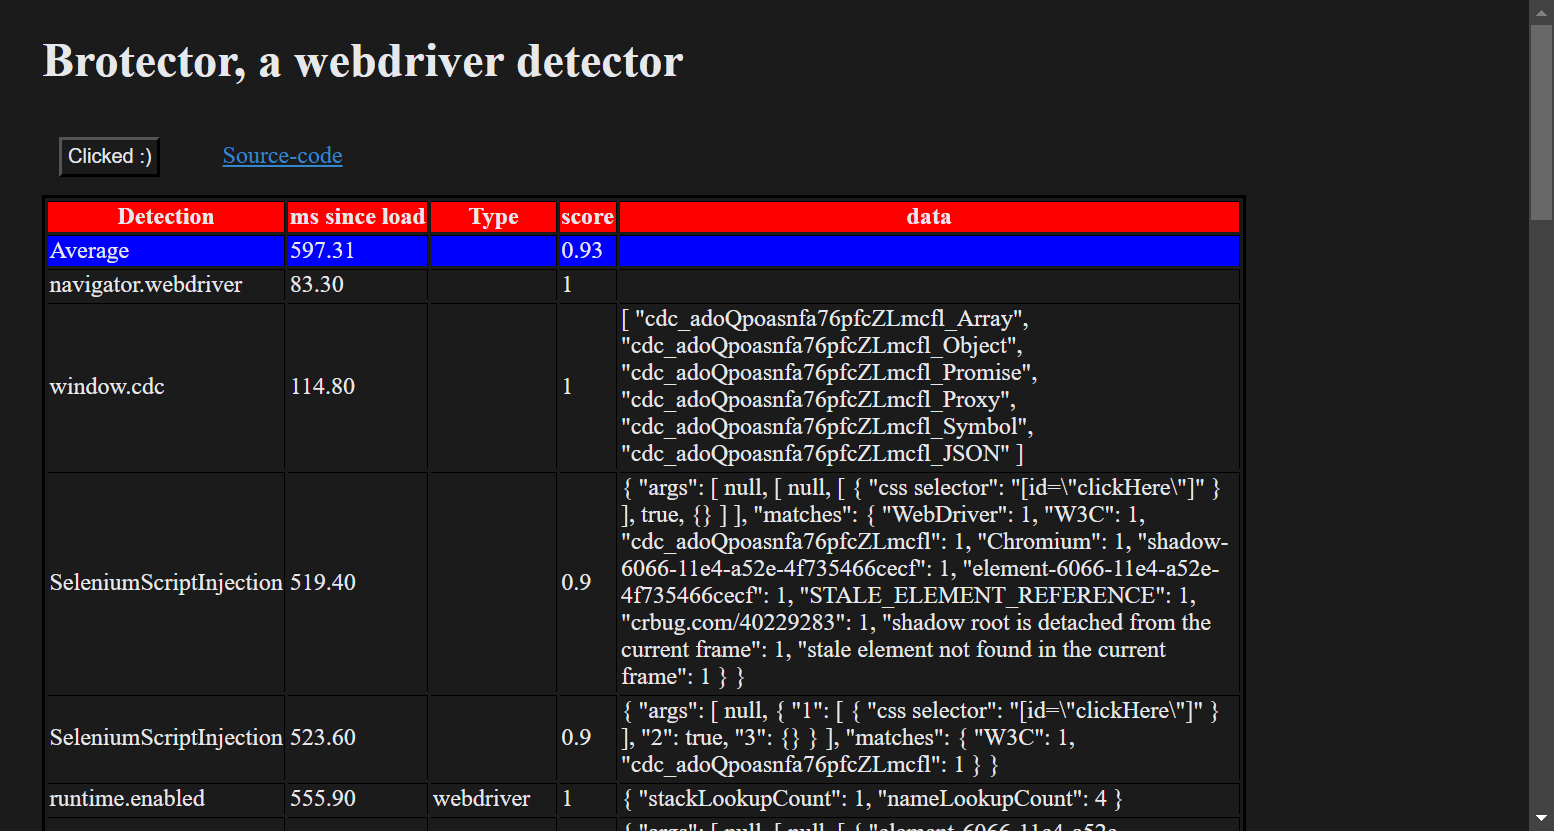
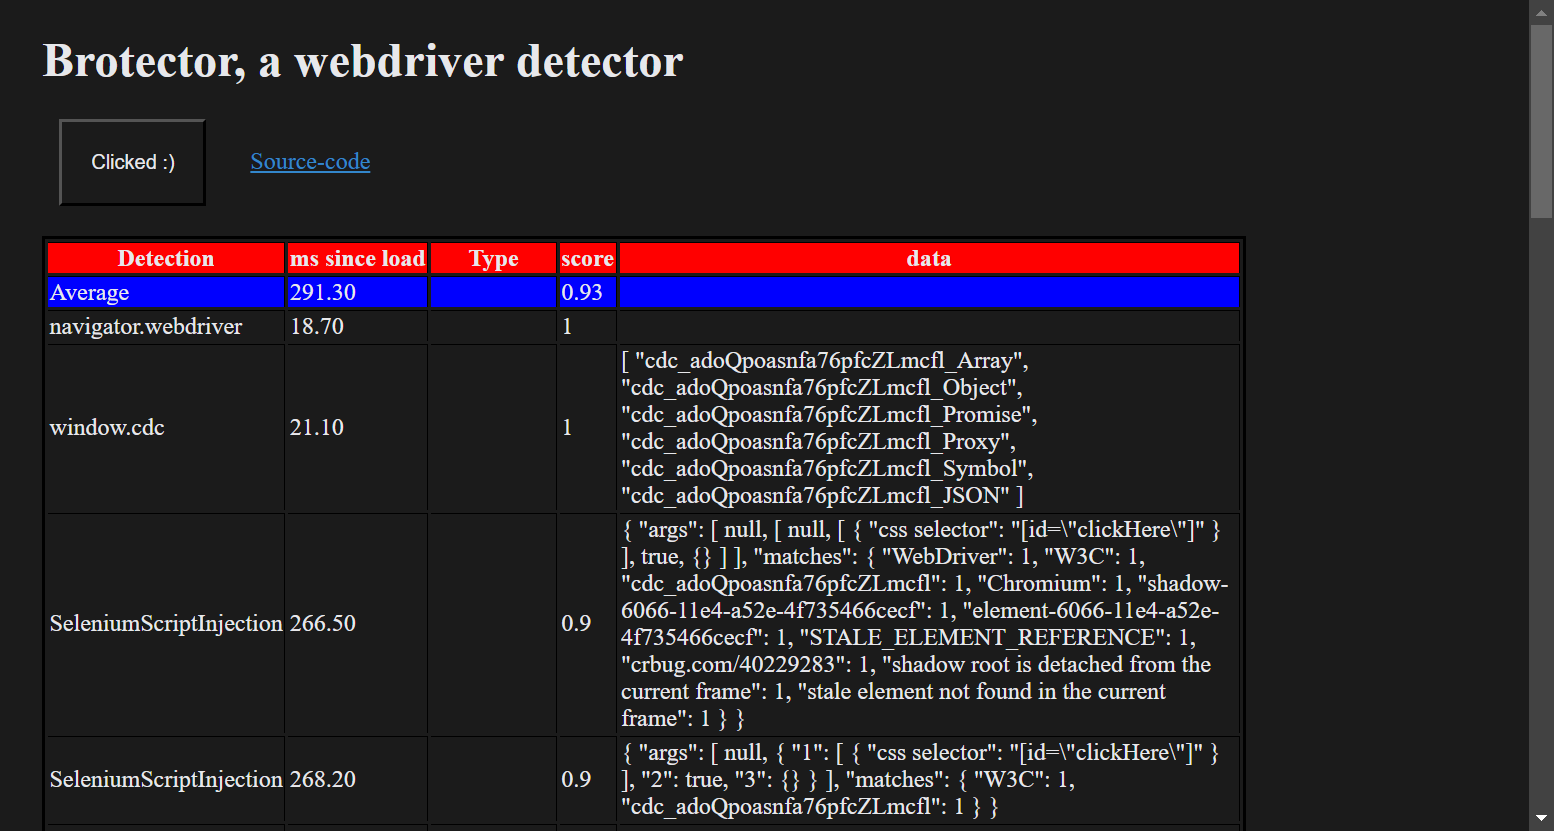
add puppeteer & pyppeteer specific detections

diff --git a/brotector.js b/brotector.js
@@ -3,6 +3,17 @@ const chromedriverSourceMatches = [
 "element-6066-11e4-a52e-4f735466cecf", "STALE_ELEMENT_REFERENCE", "crbug.com/40229283",
 "shadow root is detached from the current frame","stale element not found in the current frame"]
 
+const stackScriptInjectionMatches = {
+    "pyppeteer":"    at [\\s\\S]* \\(__pyppeteer_evaluation_script__:[0-9]+:[0-9]+\\)",
+    "puppeteer":"    at [\\s\\S]* \\(__puppeteer_evaluation_script__:[0-9]+:[0-9]+\\)"
+}
+
+const hookers = [
+    ["HTMLElement", "click"],
+    ["HTMLElement","querySelector"],
+    ["HTMLElement","querySelectorAll"],
+]
+
 const brotectorBanner = `
 
 
@@ -27,17 +38,6 @@ function isEmpty() {
     for (var prop in this) if (this.hasOwnProperty(prop)) return false;
     return true;
 };
-
-function hookFunc(obj, func, callback){
-    proxy = new Proxy(globalThis[obj].prototype[func], {
-      apply: (target, thisArg, argumentsList) => {
-        callback(target, thisArg, argumentsList)
-        return Reflect.apply(target, thisArg, argumentsList)
-      }
-        }
-    );
-    Object.defineProperty(globalThis[obj].prototype, func, {value:proxy})
-}
 
 async function getHighEntropyValues(){
     const n = globalThis.navigator? globalThis.navigator: globalThis.WorkerNavigator
@@ -126,6 +126,10 @@ class Brotector {
     this.hook_canvasVisualize()
     this.hook_SeleniumScriptInjection()
 
+    for (const [obj, func] of hookers){
+        this.hookFunc(obj, func, ()=>{})
+    }
+
     Object.defineProperty(Error.prototype, 'name', {
                 configurable: false,
                 enumerable: false,
@@ -148,6 +152,28 @@ class Brotector {
   async intervalled(){
     this.test_runtimeEnabled()
     this.test_PWinitScripts()
+  }
+  hookFunc(obj, func, callback){
+    const proxy = new Proxy(globalThis[obj].prototype[func], {
+      apply: ((target, thisArg, argumentsList) => {
+        callback(target, thisArg, argumentsList)
+        try{this.test_stack(`${obj}:${func}`, argumentsList)}catch(e){console.error(e)};
+        return Reflect.apply(target, thisArg, argumentsList)
+      }).bind(this)
+    }
+    );
+    Object.defineProperty(globalThis[obj].prototype, func, {value:proxy})
+}
+  test_stack(hook, args){
+      var stack
+      try{throw Error()}catch(e){stack = e.stack}
+      for (const line of stack.split("\n")){
+        for (const [type, regex] of Object.entries(stackScriptInjectionMatches)){
+            if(line.match(regex)){
+                this.log({detection:"stack.signature", type:type, score:0.9, data:{stack:stack, hook:hook}})
+            }
+        }
+      }
   }
   test_navigator_webdriver(){
     if(navigator.webdriver === true){
@@ -284,7 +310,7 @@ class Brotector {
     }
   }
   hook_canvasVisualize() {
-    hookFunc("CanvasRenderingContext2D", "arc", this.canvasVisualizeHandler.bind(this))
+    this.hookFunc("CanvasRenderingContext2D", "arc", this.canvasVisualizeHandler.bind(this))
   }
   canvasVisualizeHandler(target, thisArg, argumentsList){
       if(this._canvasMouseVisualizer){return}
@@ -303,7 +329,7 @@ class Brotector {
       }
   }
   hook_SeleniumScriptInjection(){
-    hookFunc("Function", "apply", this.SeleniumScriptInjectionHandler.bind(this))
+    this.hookFunc("Function", "apply", this.SeleniumScriptInjectionHandler.bind(this))
   }
   SeleniumScriptInjectionHandler(target, thisArg, argumentsList){
     let code = thisArg.toString()

diff --git a/tests/test_pyppeteer.py b/tests/test_pyppeteer.py
@@ -31,29 +31,35 @@ async def detect(page):
 @pytest.mark.asyncio
 async def test_pyppeteer():
     browser = await asyncio.wait_for(launch(headless=False, executablePath=find_chrome_executable(),
-                           ignoreDefaultArgs=False, args=[*extra_args]),10)
-    page = await browser.newPage()
-    with pytest.raises(Detected):
-        await detect(page)
-    await browser.close()
+                                            ignoreDefaultArgs=False, args=[*extra_args]), 10)
+    try:
+        page = await browser.newPage()
+        with pytest.raises(Detected):
+            await detect(page)
+    finally:
+        await browser.close()
 
 
 @pytest.mark.asyncio
 async def test_pyppeteer_stealthy():
     browser = await asyncio.wait_for(launch(headless=False, executablePath=find_chrome_executable(),
-                           args=['--disable-blink-features=AutomationControlled', *extra_args]), 10)
-    page = await browser.newPage()
-    with pytest.raises(Detected):
-        await detect(page)
-    await browser.close()
+                                            args=['--disable-blink-features=AutomationControlled', *extra_args]), 10)
+    try:
+        page = await browser.newPage()
+        with pytest.raises(Detected):
+            await detect(page)
+    finally:
+        await browser.close()
 
 
 @pytest.mark.asyncio
 async def test_pyppeteer_stealth():
     browser = await asyncio.wait_for(launch(headless=False, executablePath=find_chrome_executable(),
-                           args=['--disable-blink-features=AutomationControlled', *extra_args]),10)
-    page = await browser.newPage()
-    with pytest.raises(Detected):
-        await stealth(page)
-        await detect(page)
-    await browser.close()
+                                            args=['--disable-blink-features=AutomationControlled', *extra_args]), 10)
+    try:
+        page = await browser.newPage()
+        with pytest.raises(Detected):
+            await stealth(page)
+            await detect(page)
+    finally:
+        await browser.close()

diff --git a/README.md b/README.md
@@ -76,6 +76,10 @@ see [`Event.isTrusted`](https://developer.mozilla.org/en-US/docs/Web/API/Event/i
 #### PWinitScript
 - detects `playwright>=1.46.1`, induced with [commit](https://github.com/microsoft/playwright/commit/c9e673c6dca746384338ab6bb0cf63c7e7caa9b2#diff-087773eea292da9db5a3f27de8f1a2940cdb895383ad750c3cd8e01772a35b40R909-R924)
 
+----
+#### stack.signature
+detects injected javascript based on the stack trace in hooks
+
 ## Contribution
 feel free to
 - open `[feature request]`s for driver detections
